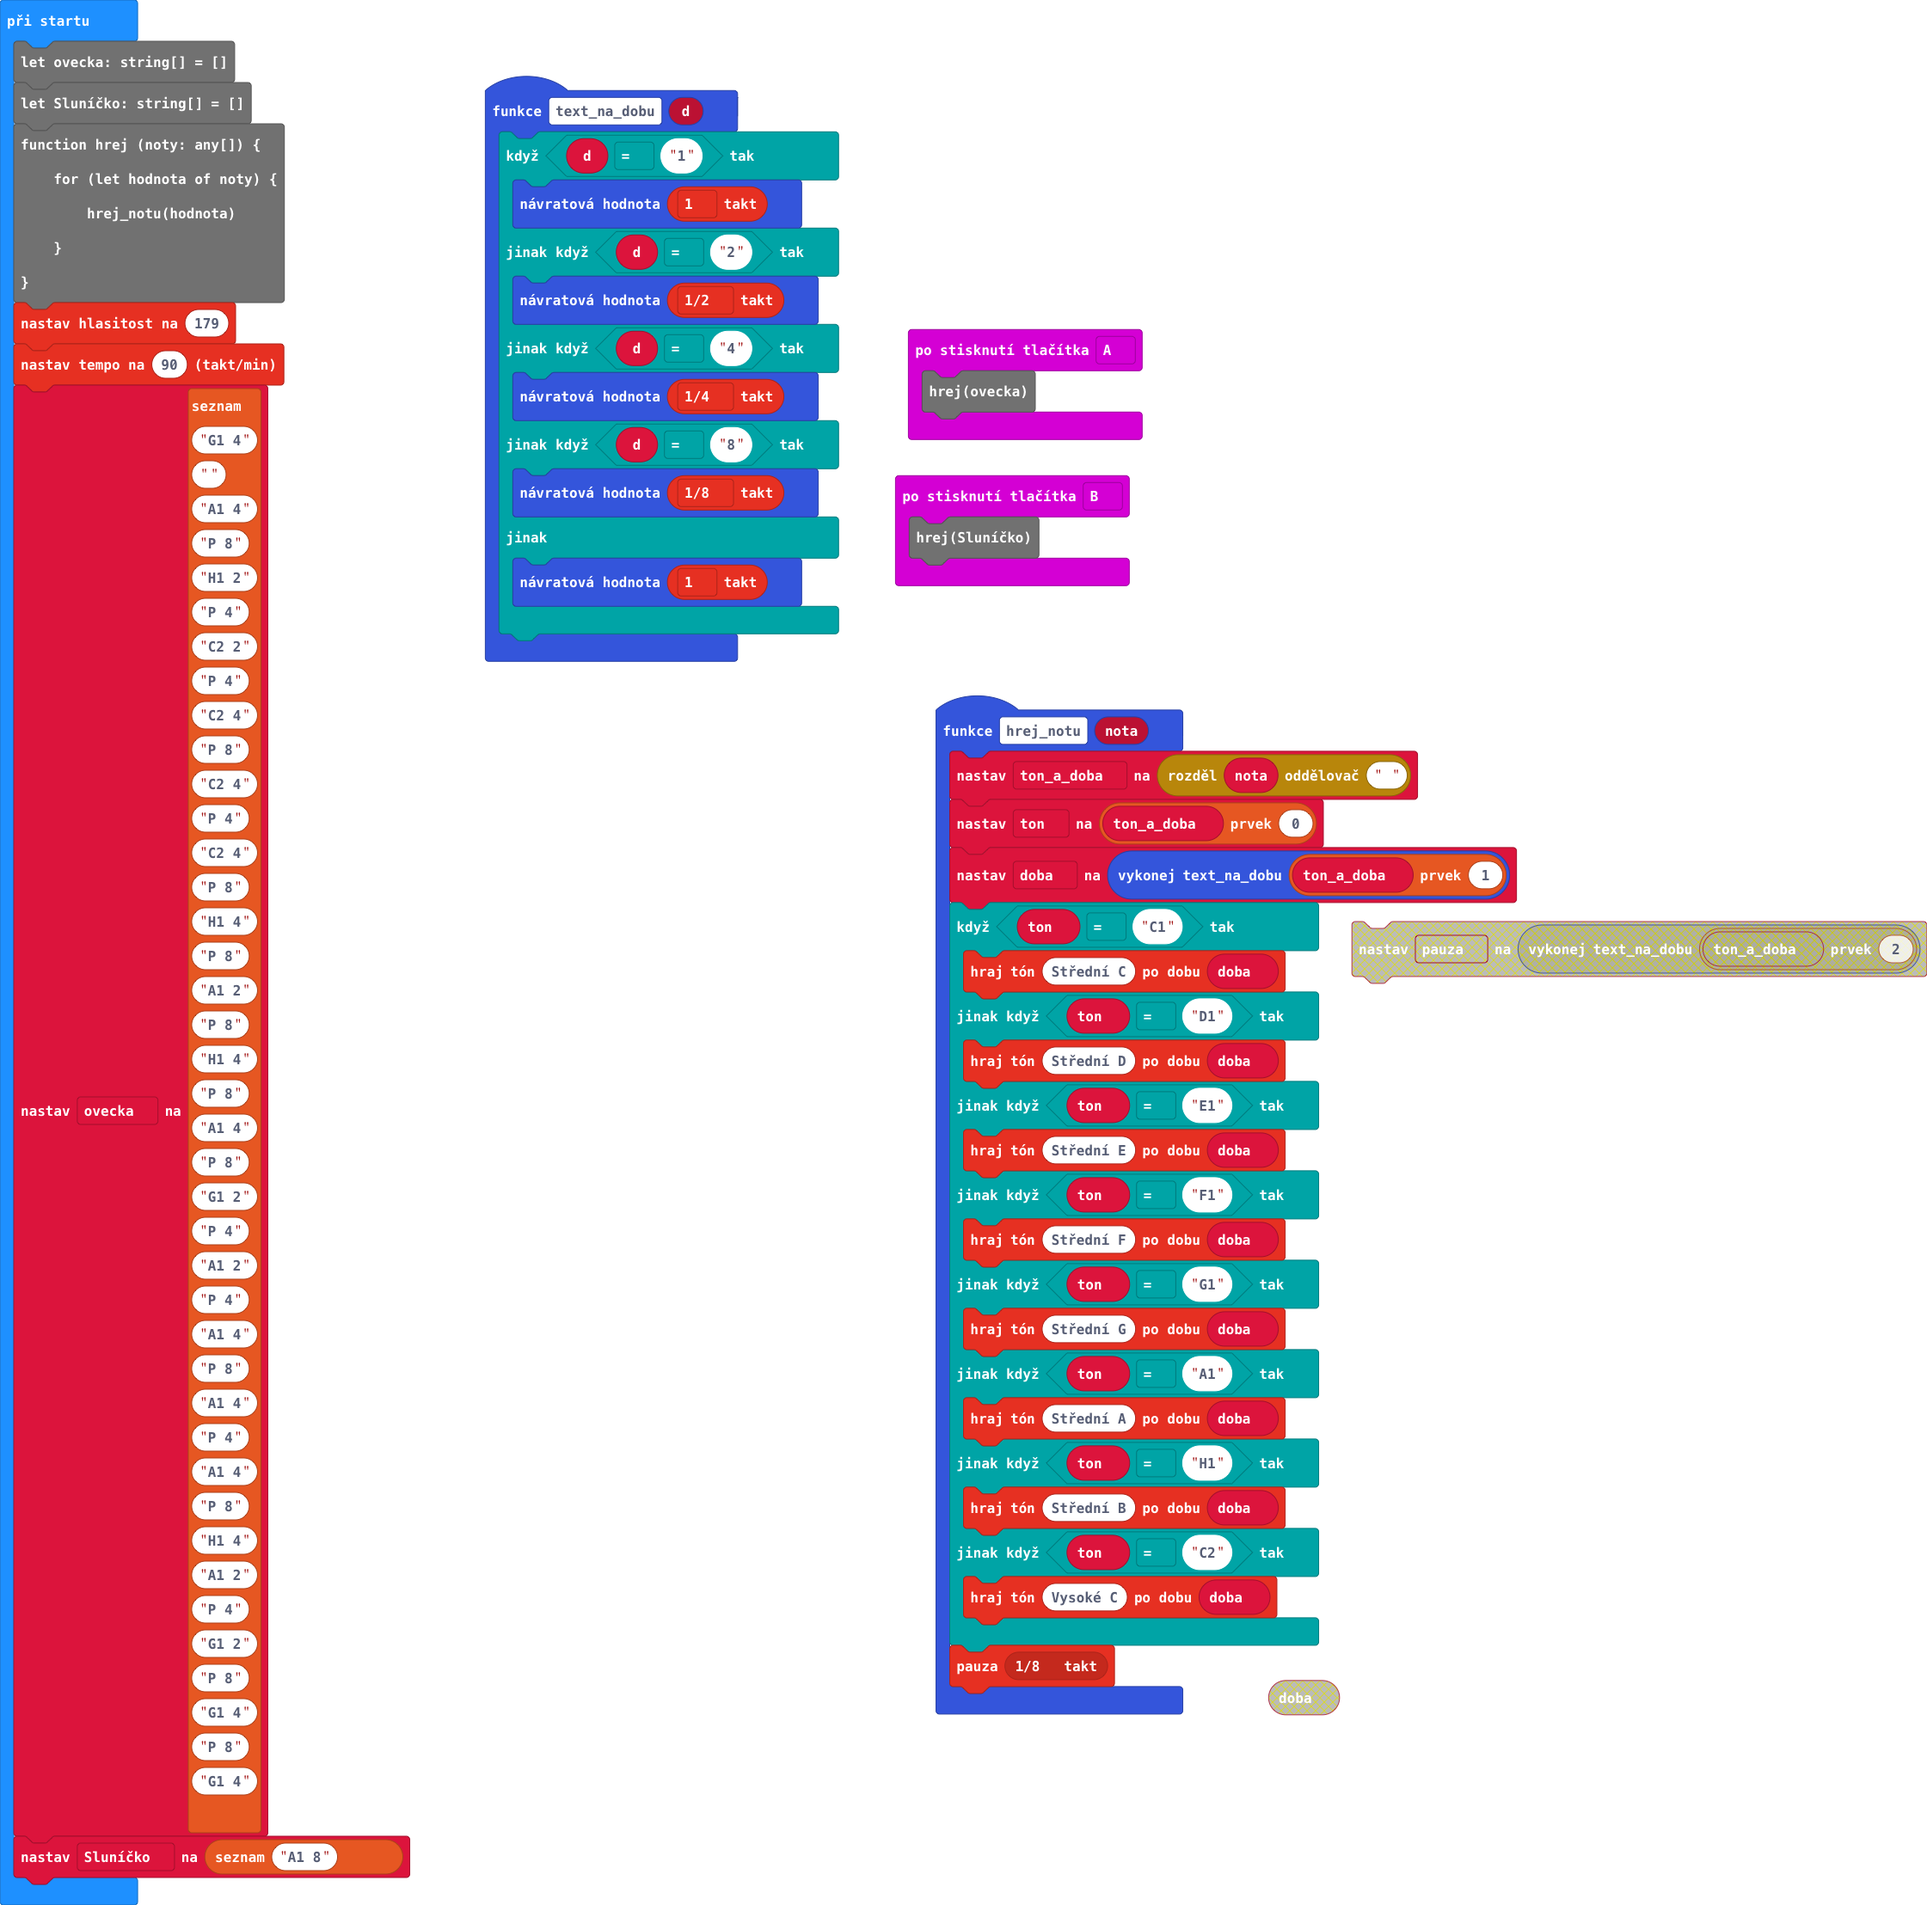
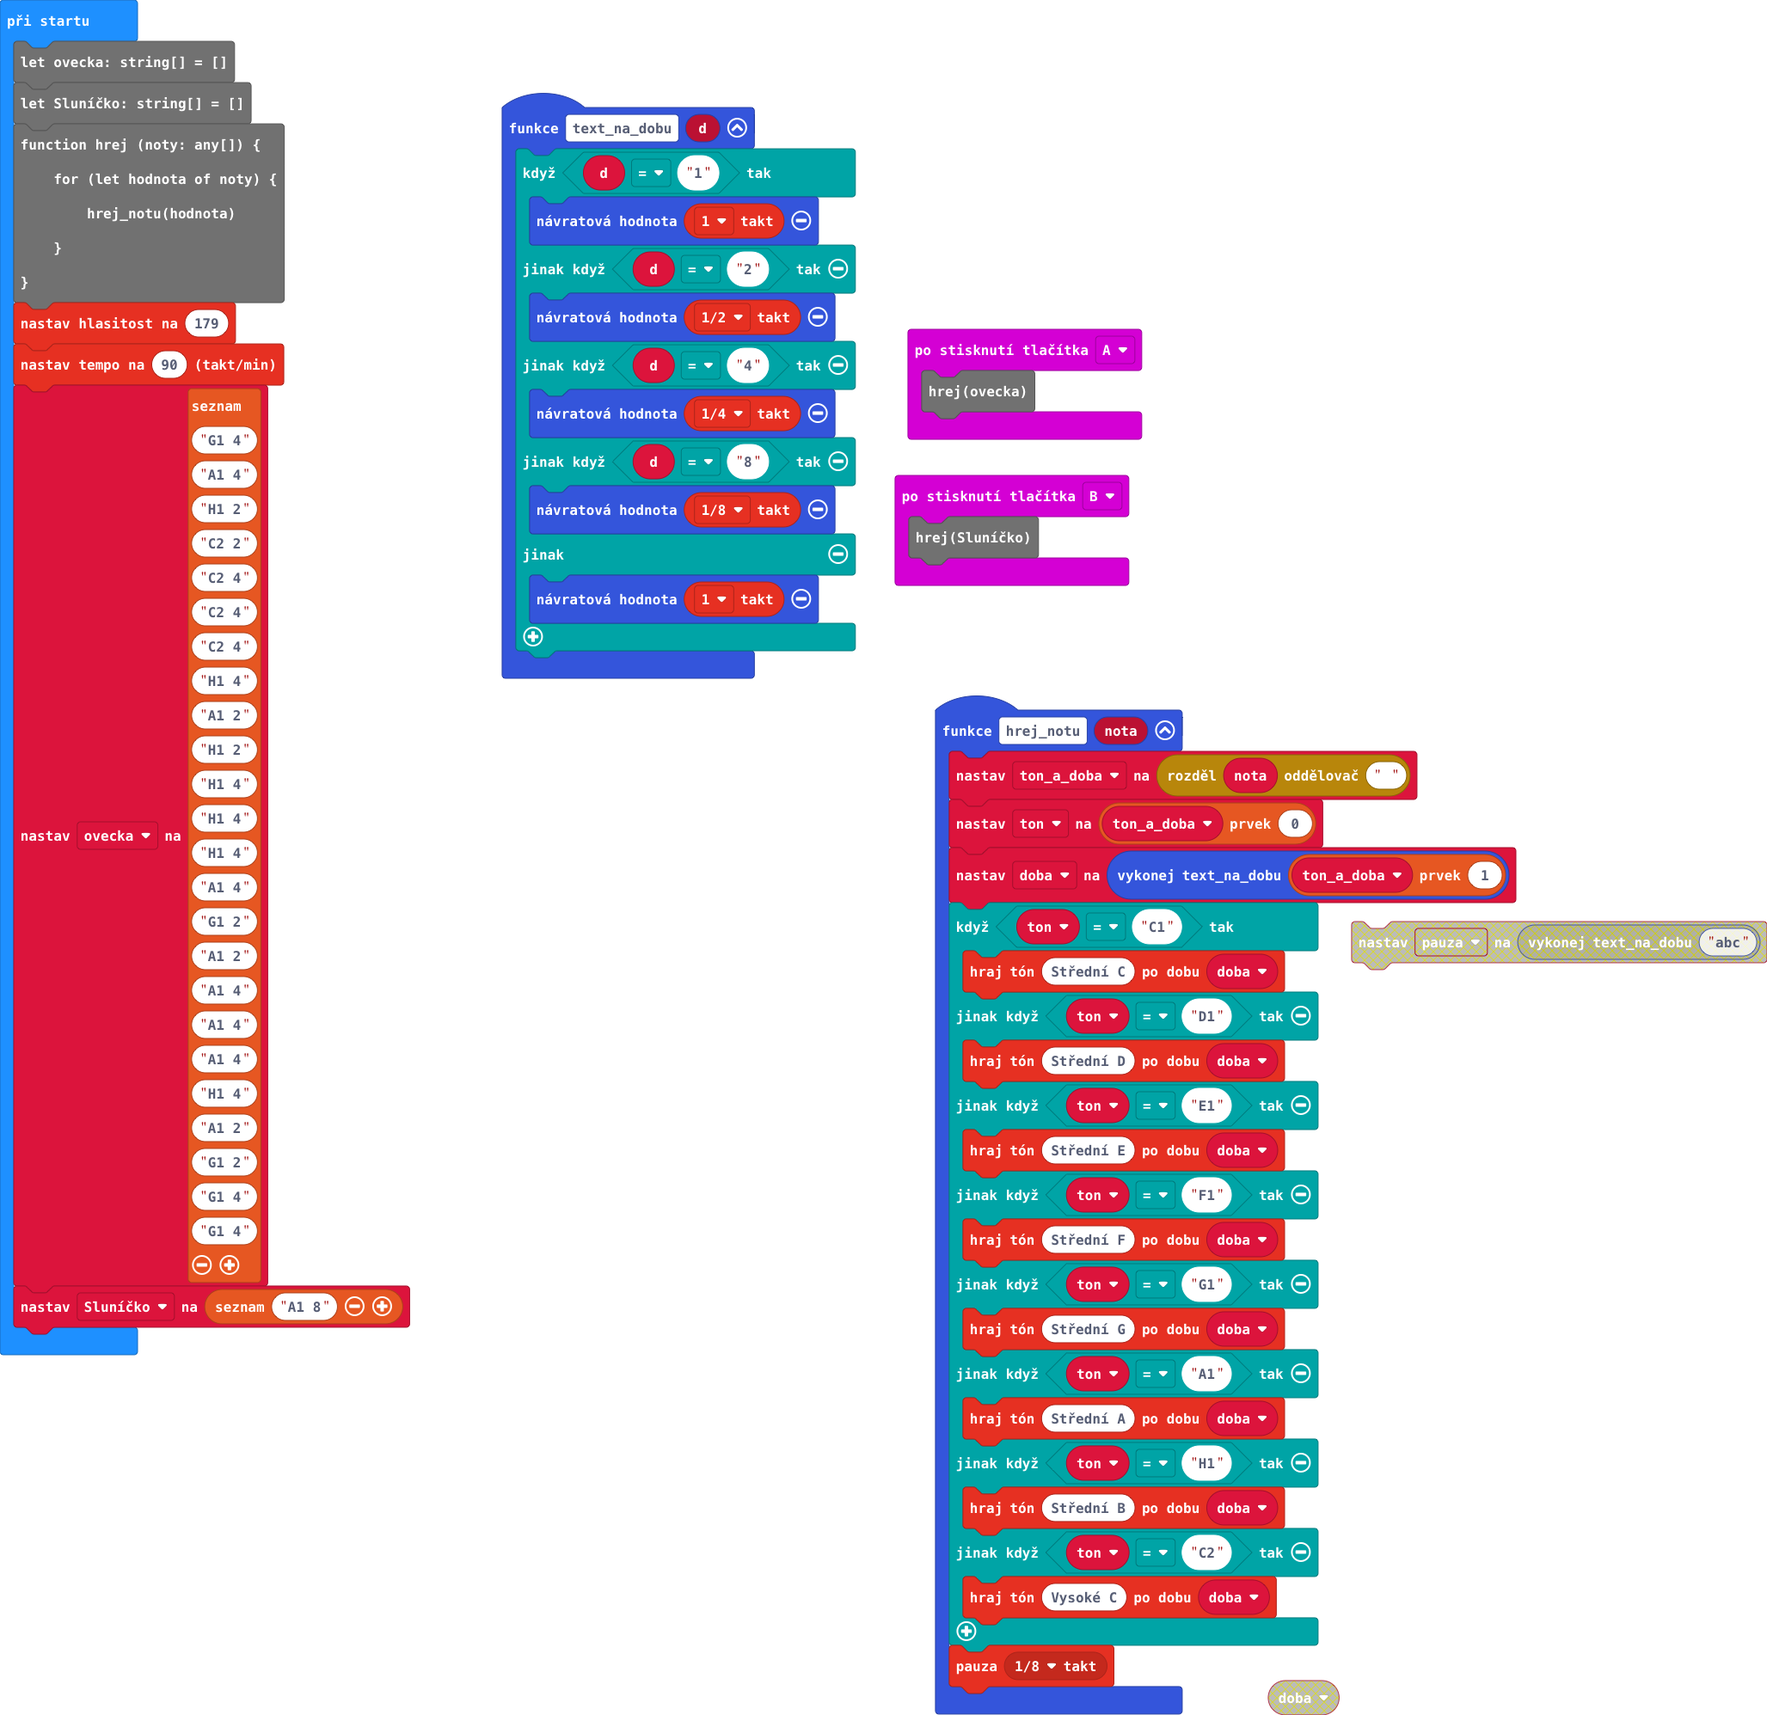
Aktualizovat main.blocks, main.ts

Changed region(s): [[0.2491, 0.0311, 1.0, 1.0], [0.0, 0.0, 0.2491, 1.0], [0.0, 0.5594, 0.0623, 0.5905]]

diff --git a/main.ts b/main.ts
@@ -54,44 +54,28 @@ music.setVolume(179)
 music.setTempo(90)
 ovecka = [
 "G1 4",
-"",
 "A1 4",
-"P 8",
 "H1 2",
-"P 4",
 "C2 2",
-"P 4",
 "C2 4",
-"P 8",
 "C2 4",
-"P 4",
 "C2 4",
-"P 8",
 "H1 4",
-"P 8",
 "A1 2",
-"P 8",
+"H1 2",
 "H1 4",
-"P 8",
+"H1 4",
+"H1 4",
 "A1 4",
-"P 8",
 "G1 2",
-"P 4",
 "A1 2",
-"P 4",
 "A1 4",
-"P 8",
 "A1 4",
-"P 4",
 "A1 4",
-"P 8",
 "H1 4",
 "A1 2",
-"P 4",
 "G1 2",
-"P 8",
 "G1 4",
-"P 8",
 "G1 4"
 ]
 Sluníčko = ["A1 8"]
